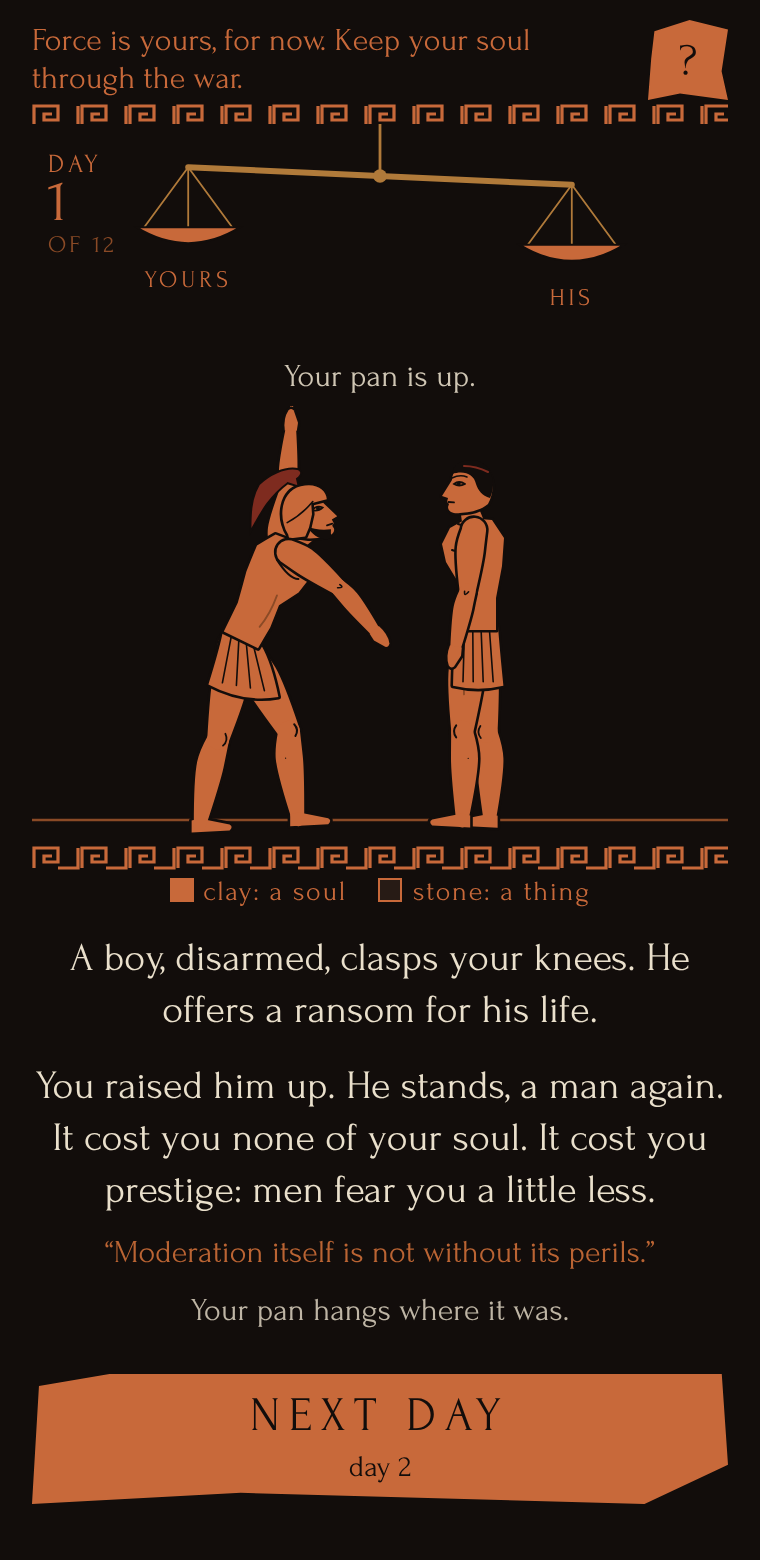
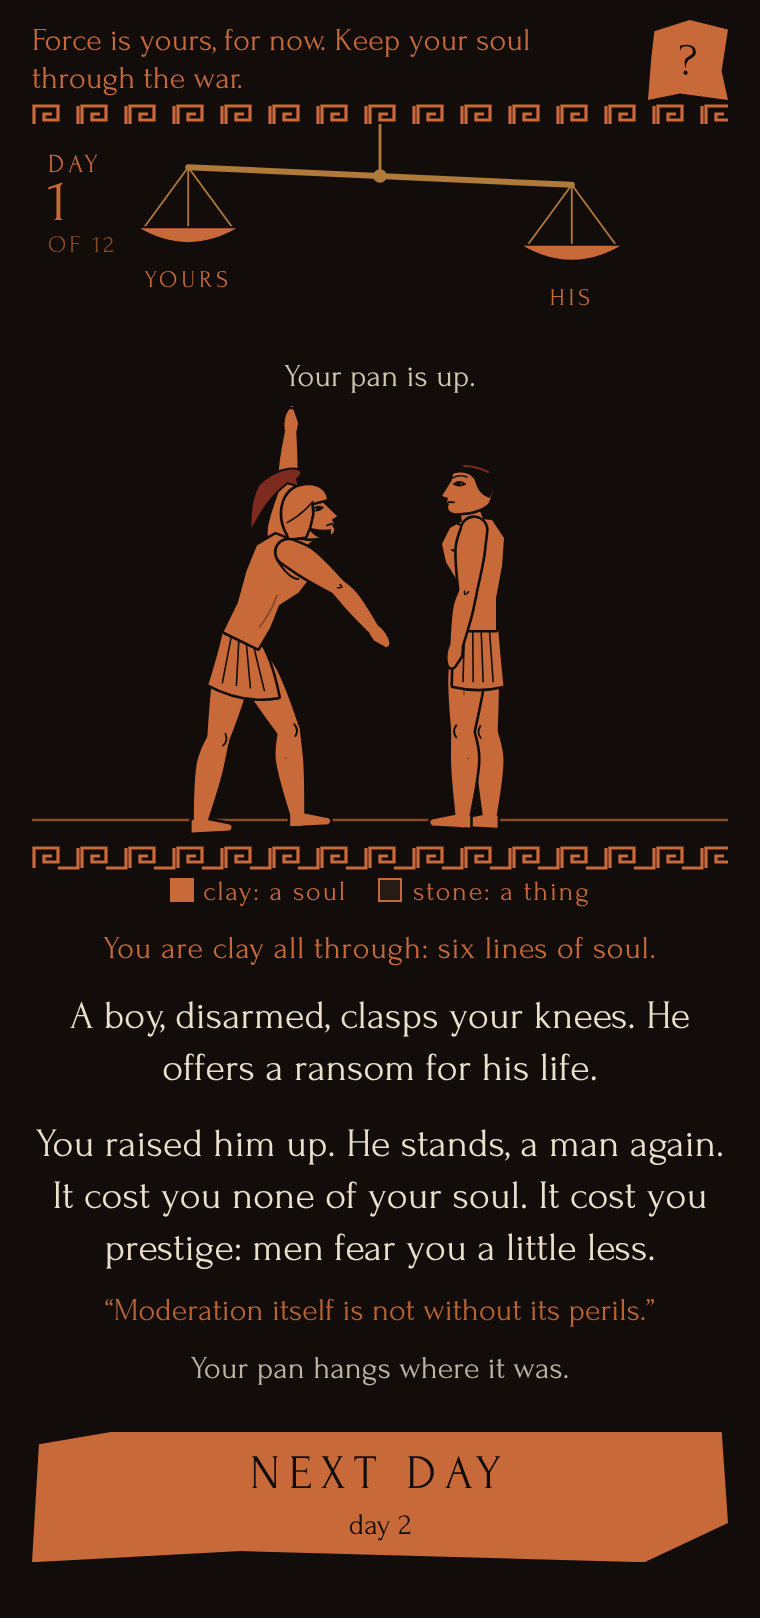
Weil's Vase, revision 2: the stone said on every screen; Weil's refusal of the right amount on the end screen
Claude-Session: https://claude.ai/code/session_018niUhvwiMGBqmAW4HxwubP

diff --git a/weil/weils-vase.html b/weil/weils-vase.html
@@ -65,6 +65,7 @@ svg{display:block}
 .legend{display:flex;justify-content:center;gap:16px;font-size:14px;color:var(--clay);margin:2px 0 0;letter-spacing:.06em}
 .legend i{font-style:normal;display:inline-block;width:12px;height:12px;vertical-align:-1px;margin-right:5px;border:1px solid var(--clay)}
 .legend .c i{background:var(--clay)} .legend .k i{background:var(--stone)}
+.you{text-align:center;font-size:16px;color:var(--clay);margin:8px 10px 0;letter-spacing:.02em}
 .scene{font-size:20px;line-height:1.3;text-align:center;margin:10px 2px 4px;color:var(--white)}
 .teach{font-size:16px;line-height:1.3;text-align:center;color:var(--clay);margin:6px 6px 4px}
 .creep{font-size:17px;text-align:center;color:var(--white);margin:6px 0 0}
@@ -118,6 +119,7 @@ svg{display:block}
   <div id="friezeBox"><svg id="frieze" viewBox="0 30 348 220"></svg></div>
   <svg class="meander" viewBox="0 0 348 12" preserveAspectRatio="none"><rect width="348" height="12" fill="url(#mz)"/></svg>
   <div class="legend"><span class="c"><i></i>clay: a soul</span><span class="k"><i></i>stone: a thing</span></div>
+  <p class="you" id="youLine"></p>
   <p class="scene" id="scene"></p>
   <p class="teach hidden" id="teach"></p>
   <div id="choose">
@@ -494,9 +496,17 @@ svg{display:block}
 
   // what happened to the player's own figure, in one sentence
   function costLine(res) {
-    if (res.youTo < res.youFrom) return res.youTo <= 0 ? 'You are stone all through.' : `Stone climbs ${stoneTo(res.youTo).replace('to the ', 'to your ')}.`;
-    if (res.youTo > res.youFrom) return res.youTo >= CONFIG.LINES ? 'You are clay all through again.' : `The stone goes back down: you are ${stonePhrase(res.youTo)}.`;
+    if (res.youTo < res.youFrom) return res.youTo <= 0 ? 'Stone climbs. You are stone all through now: a thing.' : `Stone climbs. You are now stone all the way up to ${stoneTo(res.youTo).replace('to the ', 'your ')}.`;
+    if (res.youTo > res.youFrom) return res.youTo >= CONFIG.LINES ? 'The stone goes back down. You are clay all through again.' : `The stone goes back down. You are now stone only up to ${stoneTo(res.youTo).replace('to the ', 'your ')}.`;
     return '';
+  }
+
+  // where the stone stands on the player today, said on every day's screen (the figure shows it; this names it)
+  function youLine(lines) {
+    if (lines >= CONFIG.LINES) return 'You are clay all through: six lines of soul.';
+    if (lines <= 0) return 'You are stone all through: a thing.';
+    const n = ['', 'one line', 'two lines', 'three lines', 'four lines', 'five lines'][lines];
+    return `You are stone all the way up to ${stoneTo(lines).replace('to the ', 'your ')}; clay above, ${n} of soul left.`;
   }
 
   // the result, in the game's own voice, before any line of Homer
@@ -575,12 +585,12 @@ svg{display:block}
     if (knelt) did.push(`${times(knelt)} the scales turned, and a man stood over you.`);
     if (spears) did.push(`${times(spears)}, you and an enemy lowered your spears together.`);
     if (night && night.him === 'grace') did.push('On the last night, you and the old man sat and looked at each other.');
-    const weil = 'Force turns whoever it touches into a thing: the one who uses it as surely as the one who suffers it. Nobody holds it for long. It is on loan, and the higher it lifts a man, the less he can stop his own arm, and the further he falls.';
+    const weil = 'Force turns whoever it touches into a thing: the one who uses it as surely as the one who suffers it. Nobody holds it for long. It is on loan, and the higher it lifts a man, the less he can stop his own arm, and the further he falls. You looked for the right amount of force. She says there is none; what is left is the interval, and pity for both sides.';
     const last2 = '“… learn that there is no refuge from fate, learn not to admire force, not to hate the enemy, nor to scorn the unfortunate.”';
     return { fate, headline, did, weil, last: last2, lines: g.lines, day };
   }
 
-  return { CONFIG, MEN, ALLOWED, newLife, today, act, nextDay, interval, verdict, sceneLine, gestureLabel, scalesLine, costLine, words, stoneTo, stonePhrase, LINE_WORD, rng };
+  return { CONFIG, MEN, ALLOWED, newLife, today, act, nextDay, interval, verdict, sceneLine, gestureLabel, scalesLine, costLine, youLine, words, stoneTo, stonePhrase, LINE_WORD, rng };
 });
 
 </script>
@@ -1008,6 +1018,7 @@ svg{display:block}
     renderFrieze();
     tween({ him: { x: himX } }, 650);
     $('#scene').textContent = M.sceneLine(t);
+    $('#youLine').textContent = M.youLine(t.lines);
     // the teaching line: the rule of the world, said once, where it first matters
     let teach = '';
     if (t.day === 1) teach = 'Your figure is clay while it has a soul: six fine lines, from your knees to your eye. Lose one, and stone climbs from your feet.';
@@ -1122,6 +1133,7 @@ svg{display:block}
   }
   function showResult(res, t) {
     const w = res.word; const box = $('#result'); let h = '';
+    $('#youLine').textContent = M.youLine(res.youTo);   // the standing line follows the figure
     h += `<div class="said">${w.said.join(' ')}</div>`;
     if (w.cost) h += `<div class="cost">${w.cost}</div>`;
     if (w.why) h += `<div class="why">${w.why}</div>`;

diff --git a/weil/mechanism.js b/weil/mechanism.js
@@ -299,9 +299,17 @@
 
   // what happened to the player's own figure, in one sentence
   function costLine(res) {
-    if (res.youTo < res.youFrom) return res.youTo <= 0 ? 'You are stone all through.' : `Stone climbs ${stoneTo(res.youTo).replace('to the ', 'to your ')}.`;
-    if (res.youTo > res.youFrom) return res.youTo >= CONFIG.LINES ? 'You are clay all through again.' : `The stone goes back down: you are ${stonePhrase(res.youTo)}.`;
+    if (res.youTo < res.youFrom) return res.youTo <= 0 ? 'Stone climbs. You are stone all through now: a thing.' : `Stone climbs. You are now stone all the way up to ${stoneTo(res.youTo).replace('to the ', 'your ')}.`;
+    if (res.youTo > res.youFrom) return res.youTo >= CONFIG.LINES ? 'The stone goes back down. You are clay all through again.' : `The stone goes back down. You are now stone only up to ${stoneTo(res.youTo).replace('to the ', 'your ')}.`;
     return '';
+  }
+
+  // where the stone stands on the player today, said on every day's screen (the figure shows it; this names it)
+  function youLine(lines) {
+    if (lines >= CONFIG.LINES) return 'You are clay all through: six lines of soul.';
+    if (lines <= 0) return 'You are stone all through: a thing.';
+    const n = ['', 'one line', 'two lines', 'three lines', 'four lines', 'five lines'][lines];
+    return `You are stone all the way up to ${stoneTo(lines).replace('to the ', 'your ')}; clay above, ${n} of soul left.`;
   }
 
   // the result, in the game's own voice, before any line of Homer
@@ -380,10 +388,10 @@
     if (knelt) did.push(`${times(knelt)} the scales turned, and a man stood over you.`);
     if (spears) did.push(`${times(spears)}, you and an enemy lowered your spears together.`);
     if (night && night.him === 'grace') did.push('On the last night, you and the old man sat and looked at each other.');
-    const weil = 'Force turns whoever it touches into a thing: the one who uses it as surely as the one who suffers it. Nobody holds it for long. It is on loan, and the higher it lifts a man, the less he can stop his own arm, and the further he falls.';
+    const weil = 'Force turns whoever it touches into a thing: the one who uses it as surely as the one who suffers it. Nobody holds it for long. It is on loan, and the higher it lifts a man, the less he can stop his own arm, and the further he falls. You looked for the right amount of force. She says there is none; what is left is the interval, and pity for both sides.';
     const last2 = '“… learn that there is no refuge from fate, learn not to admire force, not to hate the enemy, nor to scorn the unfortunate.”';
     return { fate, headline, did, weil, last: last2, lines: g.lines, day };
   }
 
-  return { CONFIG, MEN, ALLOWED, newLife, today, act, nextDay, interval, verdict, sceneLine, gestureLabel, scalesLine, costLine, words, stoneTo, stonePhrase, LINE_WORD, rng };
+  return { CONFIG, MEN, ALLOWED, newLife, today, act, nextDay, interval, verdict, sceneLine, gestureLabel, scalesLine, costLine, youLine, words, stoneTo, stonePhrase, LINE_WORD, rng };
 });

diff --git a/weil/template.html b/weil/template.html
@@ -65,6 +65,7 @@ svg{display:block}
 .legend{display:flex;justify-content:center;gap:16px;font-size:14px;color:var(--clay);margin:2px 0 0;letter-spacing:.06em}
 .legend i{font-style:normal;display:inline-block;width:12px;height:12px;vertical-align:-1px;margin-right:5px;border:1px solid var(--clay)}
 .legend .c i{background:var(--clay)} .legend .k i{background:var(--stone)}
+.you{text-align:center;font-size:16px;color:var(--clay);margin:8px 10px 0;letter-spacing:.02em}
 .scene{font-size:20px;line-height:1.3;text-align:center;margin:10px 2px 4px;color:var(--white)}
 .teach{font-size:16px;line-height:1.3;text-align:center;color:var(--clay);margin:6px 6px 4px}
 .creep{font-size:17px;text-align:center;color:var(--white);margin:6px 0 0}
@@ -118,6 +119,7 @@ svg{display:block}
   <div id="friezeBox"><svg id="frieze" viewBox="0 30 348 220"></svg></div>
   <svg class="meander" viewBox="0 0 348 12" preserveAspectRatio="none"><rect width="348" height="12" fill="url(#mz)"/></svg>
   <div class="legend"><span class="c"><i></i>clay: a soul</span><span class="k"><i></i>stone: a thing</span></div>
+  <p class="you" id="youLine"></p>
   <p class="scene" id="scene"></p>
   <p class="teach hidden" id="teach"></p>
   <div id="choose">
@@ -351,6 +353,7 @@ svg{display:block}
     renderFrieze();
     tween({ him: { x: himX } }, 650);
     $('#scene').textContent = M.sceneLine(t);
+    $('#youLine').textContent = M.youLine(t.lines);
     // the teaching line: the rule of the world, said once, where it first matters
     let teach = '';
     if (t.day === 1) teach = 'Your figure is clay while it has a soul: six fine lines, from your knees to your eye. Lose one, and stone climbs from your feet.';
@@ -465,6 +468,7 @@ svg{display:block}
   }
   function showResult(res, t) {
     const w = res.word; const box = $('#result'); let h = '';
+    $('#youLine').textContent = M.youLine(res.youTo);   // the standing line follows the figure
     h += `<div class="said">${w.said.join(' ')}</div>`;
     if (w.cost) h += `<div class="cost">${w.cost}</div>`;
     if (w.why) h += `<div class="why">${w.why}</div>`;

diff --git a/weil/memo.md b/weil/memo.md
@@ -221,3 +221,5 @@ The spread is wide, so the decisions matter. No rule wins everywhere: measured k
 - **Length**: a life to the night takes about four to six minutes in the scripted sessions; a hard life ends sooner. This is an estimate; no person has timed it.
 
 > **Revision 1 (2 Nov 2026): the sanity check, before the Pantheon page.** Three things only, nothing in the mechanism. (1) At phone height the long sherd ("Raise him up") appeared below the fold after the first touch, so a stranger saw the arm move and nothing else; it now scrolls into view, with a little room under it. (2) About now links the Pendle Hill pamphlet page (pendlehill.org). (3) The "builder's review only" line is dropped from About, as on the other Pantheon games; it stays in the author note. Calibration 30/30; a fresh scripted touch-and-confirm at 380 × 760 clean. Listed for December, not done: whether the two-touch gesture (sherd, then the long sherd) is understood without being told, and whether the first fall arrives early enough for a player who spares everyone.
+
+> **Revision 2 (3 Nov 2026): the stone, said.** The author played three lives before he noticed that the figure's blackening is the game's whole picture: the more you strike, the more of you is stone. The figure showed it; nothing said it. Now every day's screen carries a standing line under the legend ("You are stone all the way up to your waist; clay above, three lines of soul left."), which follows the figure after each act, and the result's cost line is cumulative rather than incremental ("Stone climbs. You are now stone all the way up to your hips." / "The stone goes back down. You are now stone only up to your knees."). One more sentence on the end screen, after Weil's diagnosis, names what the player will have been doing and refuses it in her terms: "You looked for the right amount of force. She says there is none; what is left is the interval, and pity for both sides." Mechanism numbers untouched; calibration 30/30; scripted sessions and screenshots regenerated.
